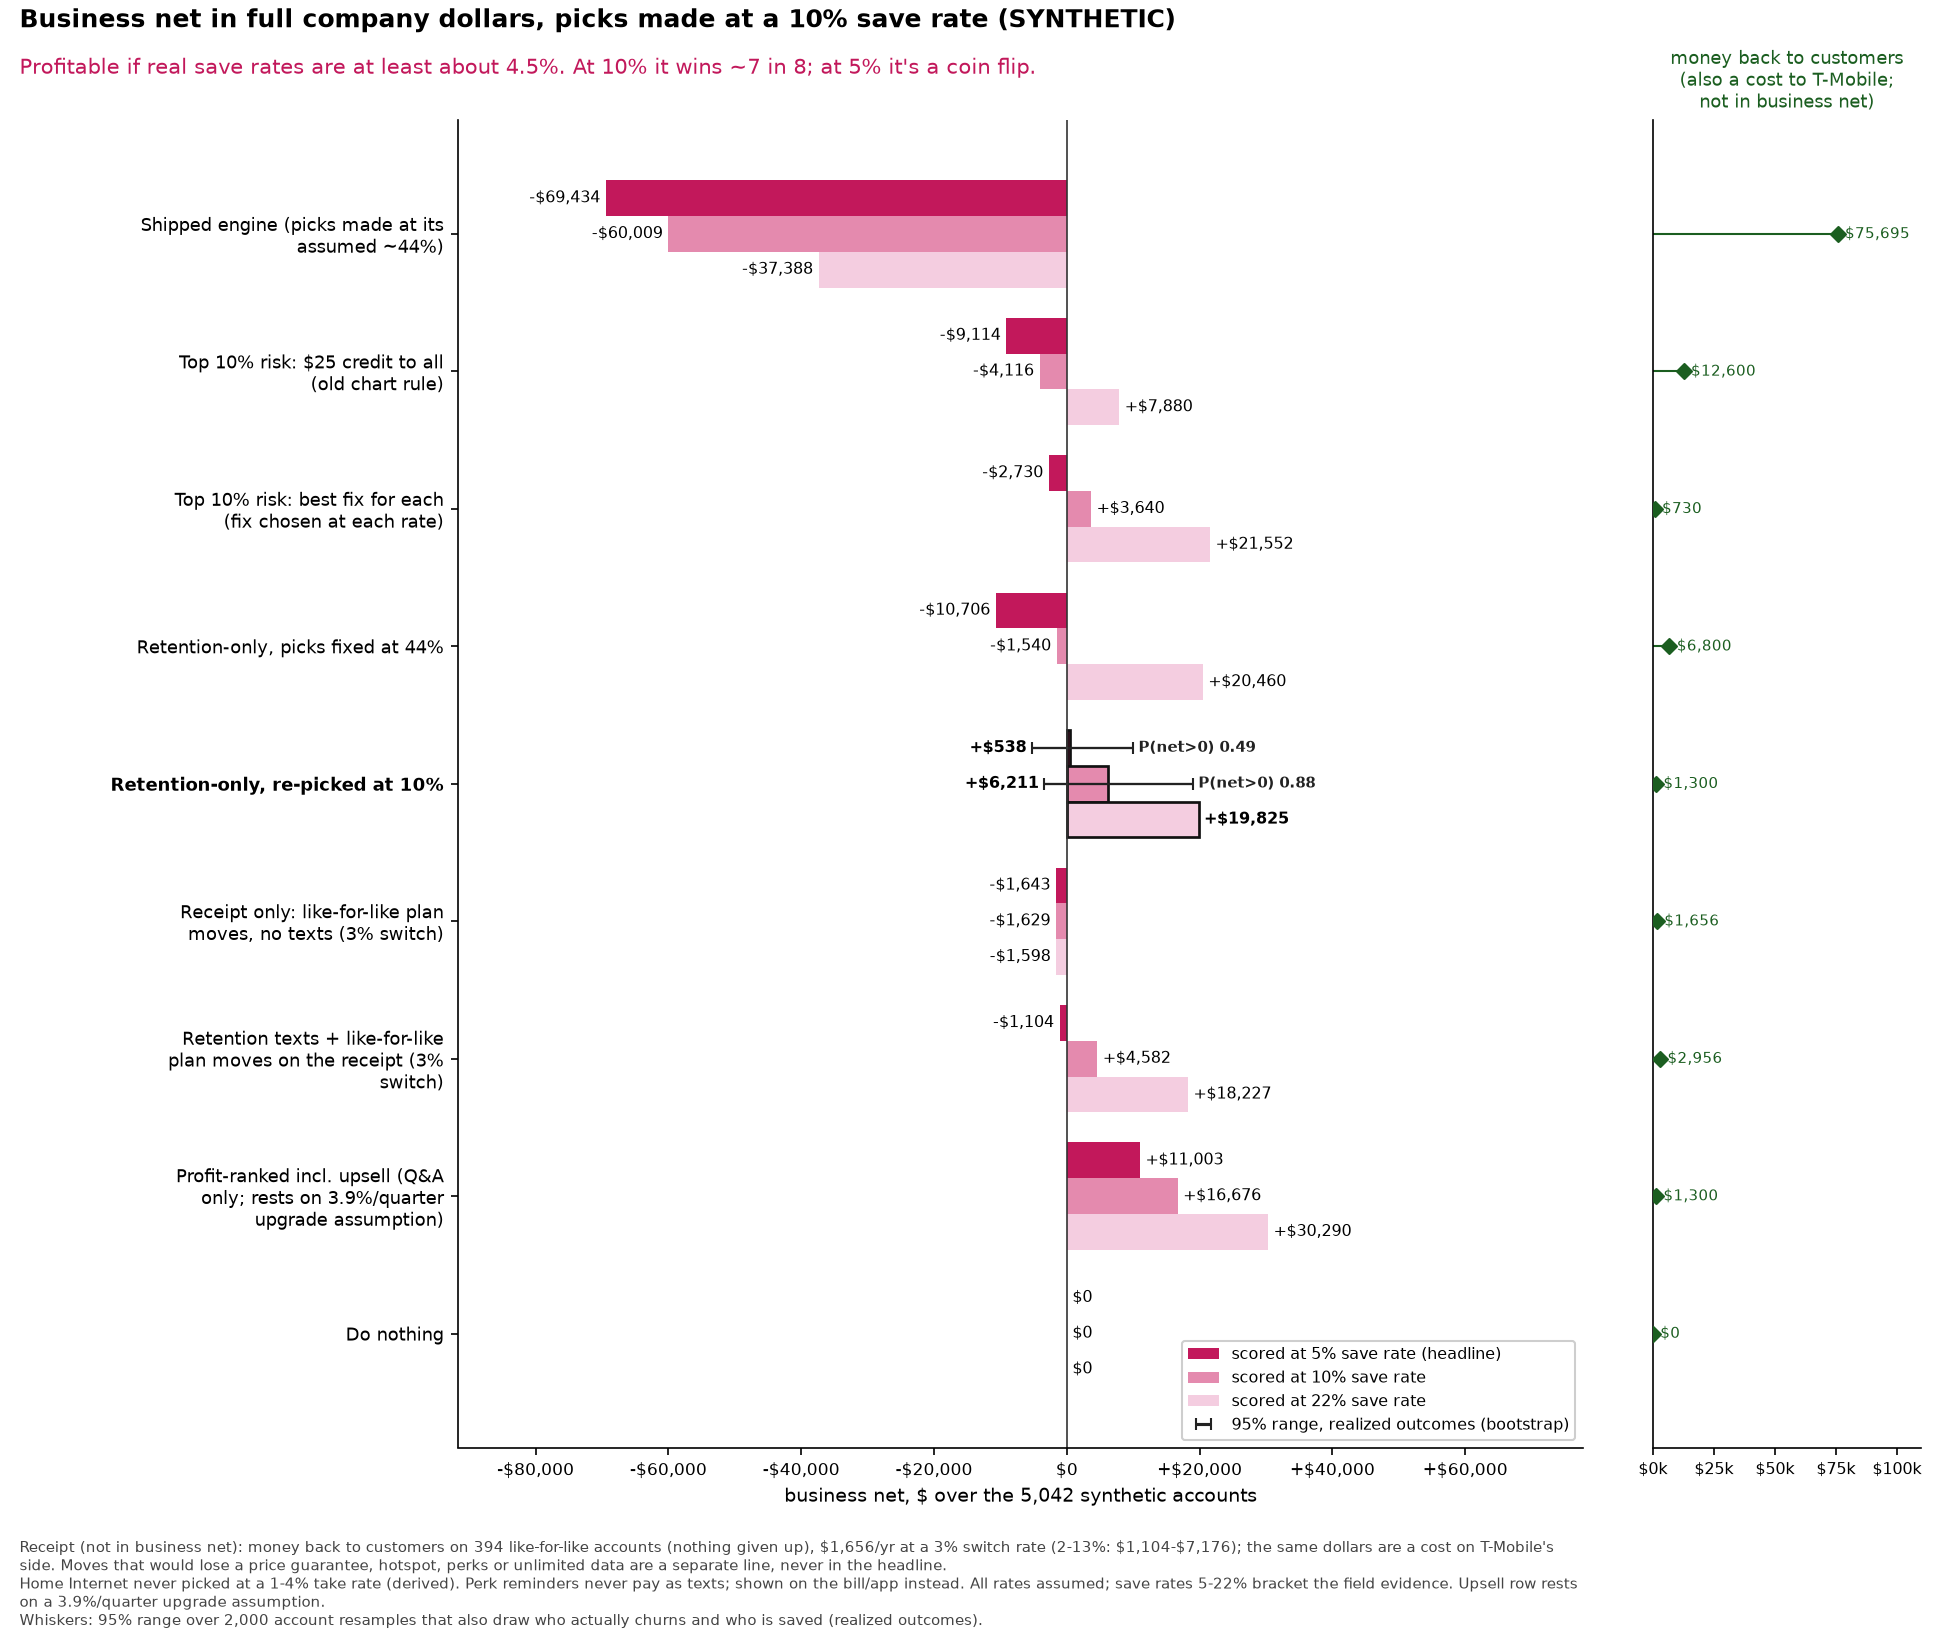
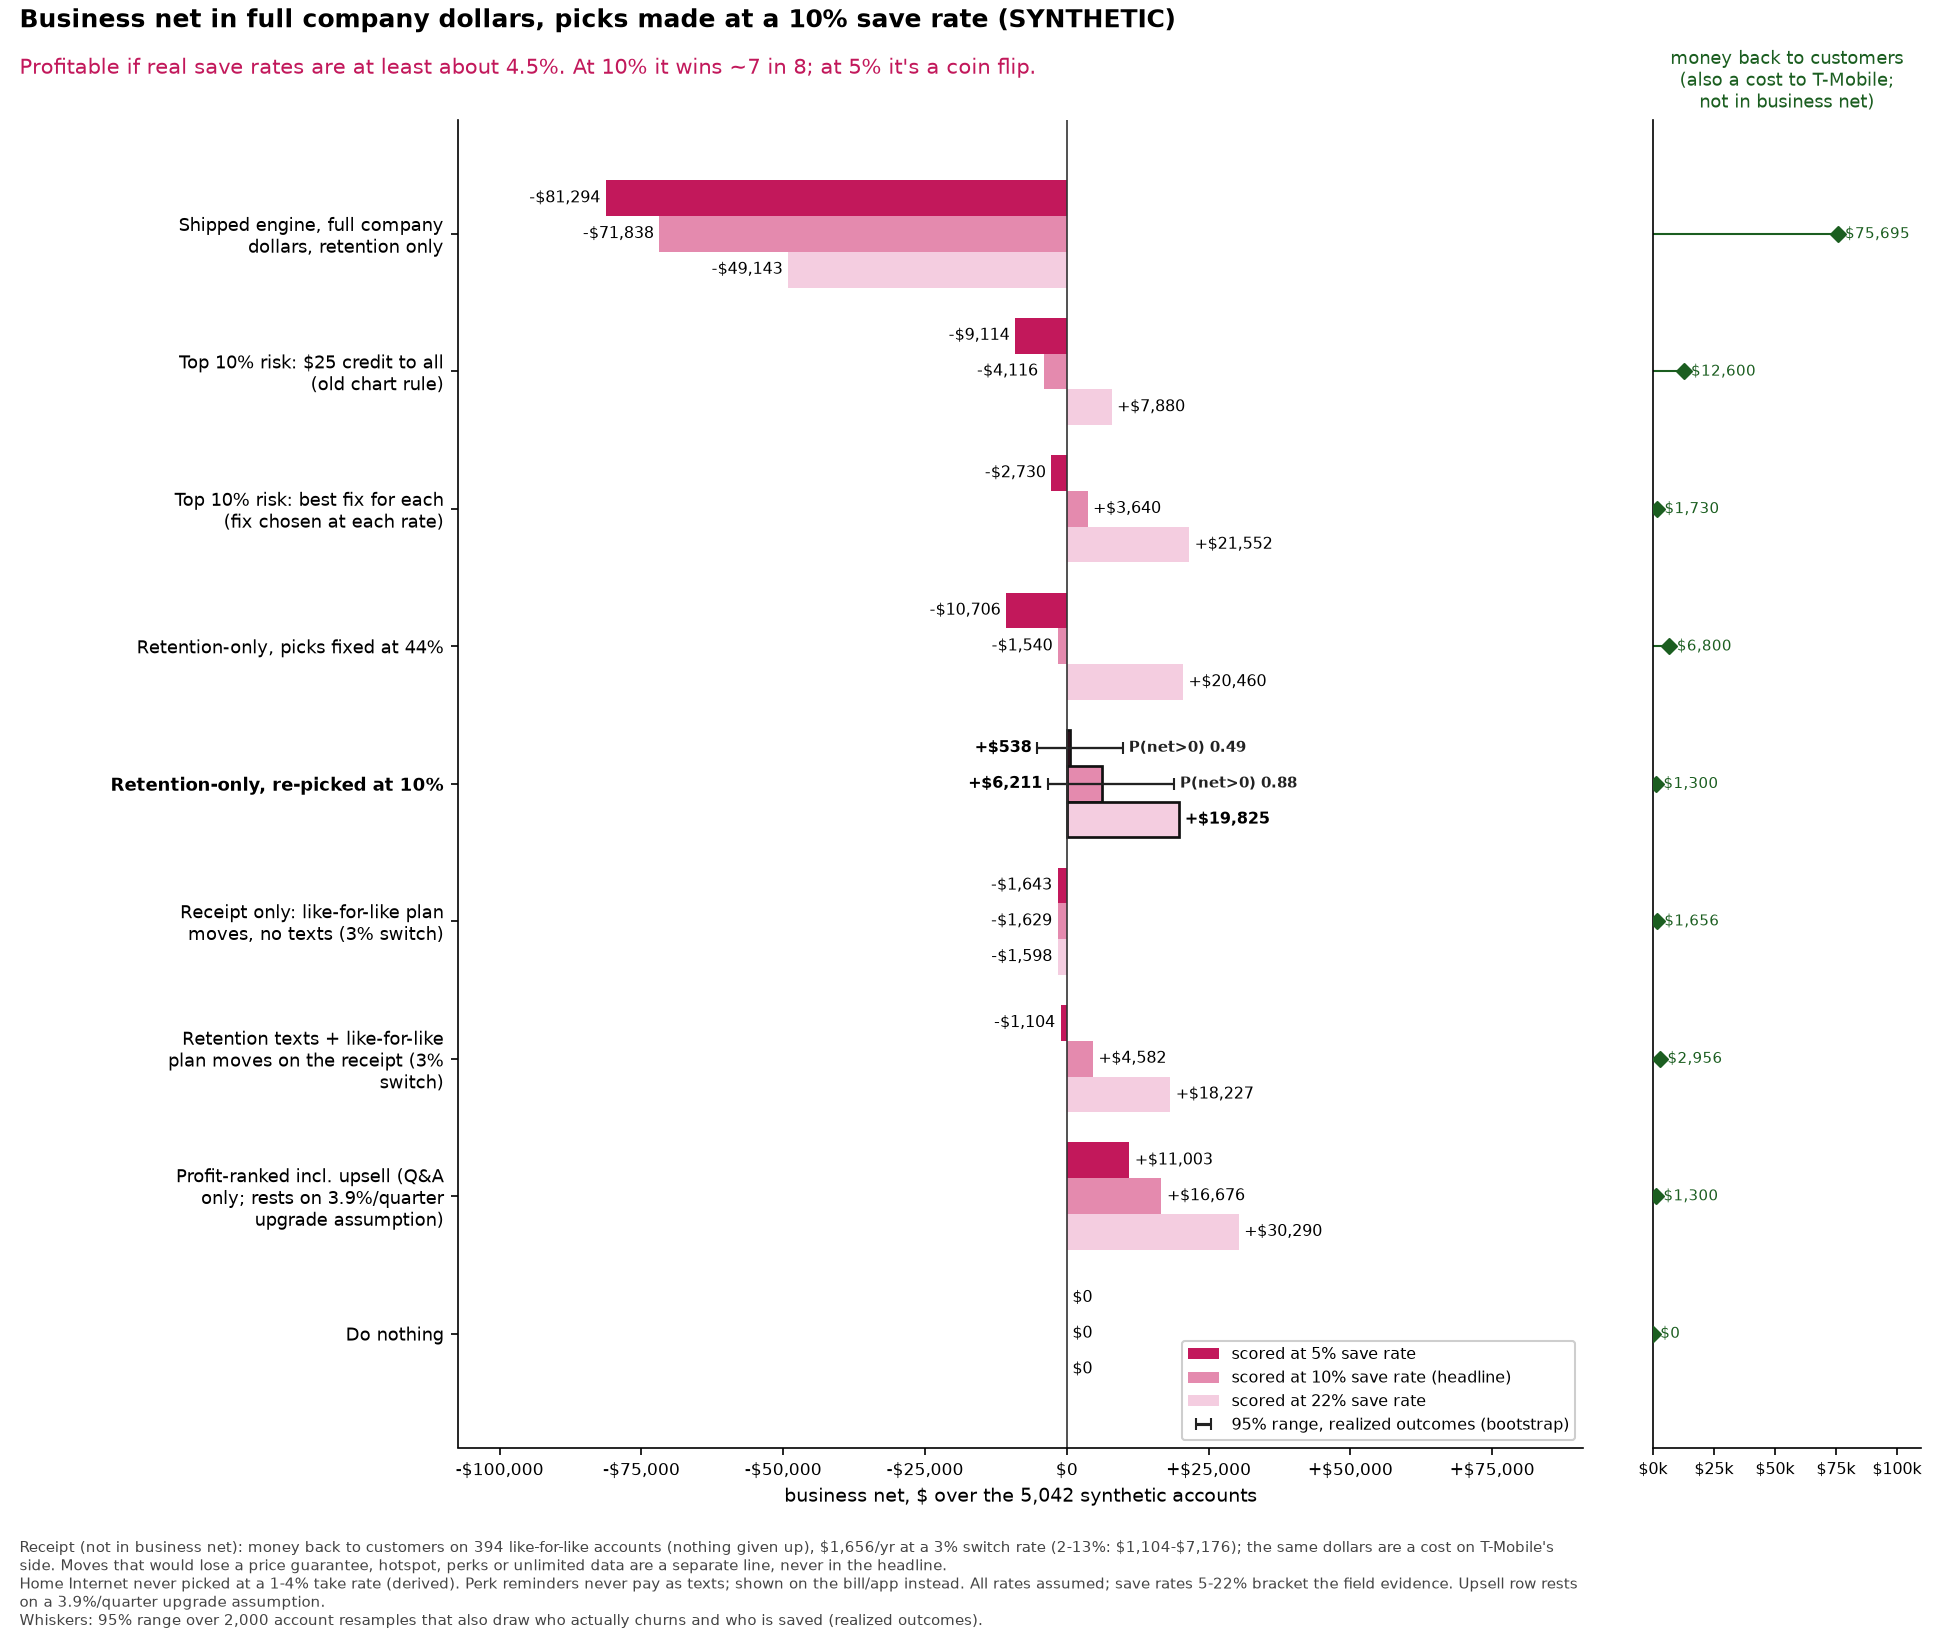
efficacy chart_data: shipped bar = shipped_engine_chart_accounting (retention only, -$71,838 at 10%), headline scored rate 10%; regenerated out/

diff --git a/experiments/efficacy/chart_data.py b/experiments/efficacy/chart_data.py
@@ -39,7 +39,7 @@ HH = Path(os.environ.get("HOUSEHOLD_PLAN_CSV", HERE / "data" / "household_plan.c
 TM_RESULTS = TM.parent / "RESULTS.md"
 TM_RECEIPT = TM.parent / "receipt.csv"                     # preferred: tm-models' receipt table (RESULTS.md section 6)
 TM_MOVES = TM.parent / "plan_moves_classified.csv"         # else: their per-move classification, strict rule applied here
-DECIDE = 0.10; SCORED = [0.05, 0.10, 0.22]; HEADLINE = 0.05
+DECIDE = 0.10; SCORED = [0.05, 0.10, 0.22]; HEADLINE = 0.10
 SWITCH = {"base": 0.03, "low": 0.02, "high": 0.13}   # receipt switch rate (assumption; randomized plan-fit trials 1-13%)
 PENDING = "pending"
 HEADLINE_BAR = "ret_10"
@@ -51,7 +51,8 @@ PERK_NOTE = "Perk reminders never pay as texts; shown on the bill/app instead."
 
 # (key, chart label, regex on tm-models policy name, required decide rate or None for rules that don't decide)
 BARS = [
-    ("shipped", "Shipped engine (picks made at its assumed ~44%)", r"^shipped_engine$", "any"),
+    # chart accounting only (retention, no upsell margin); plain shipped_engine adds upsell margin and is Q&A only
+    ("shipped", "Shipped engine, full company dollars, retention only", r"^shipped_engine_chart_accounting$", "any"),
     ("risk_credit", "Top 10% risk: $25 credit to all (old chart rule)", r"^top10_risk_care_credit$", None),
     ("risk_best", "Top 10% risk: best fix for each (fix chosen at each rate)", r"^risk_only_best_fix_top500$", "own"),
     ("ret_fixed44", "Retention-only, picks fixed at 44%", r"^ev_retention_only_unlimited_mismatched$", 0.44),
